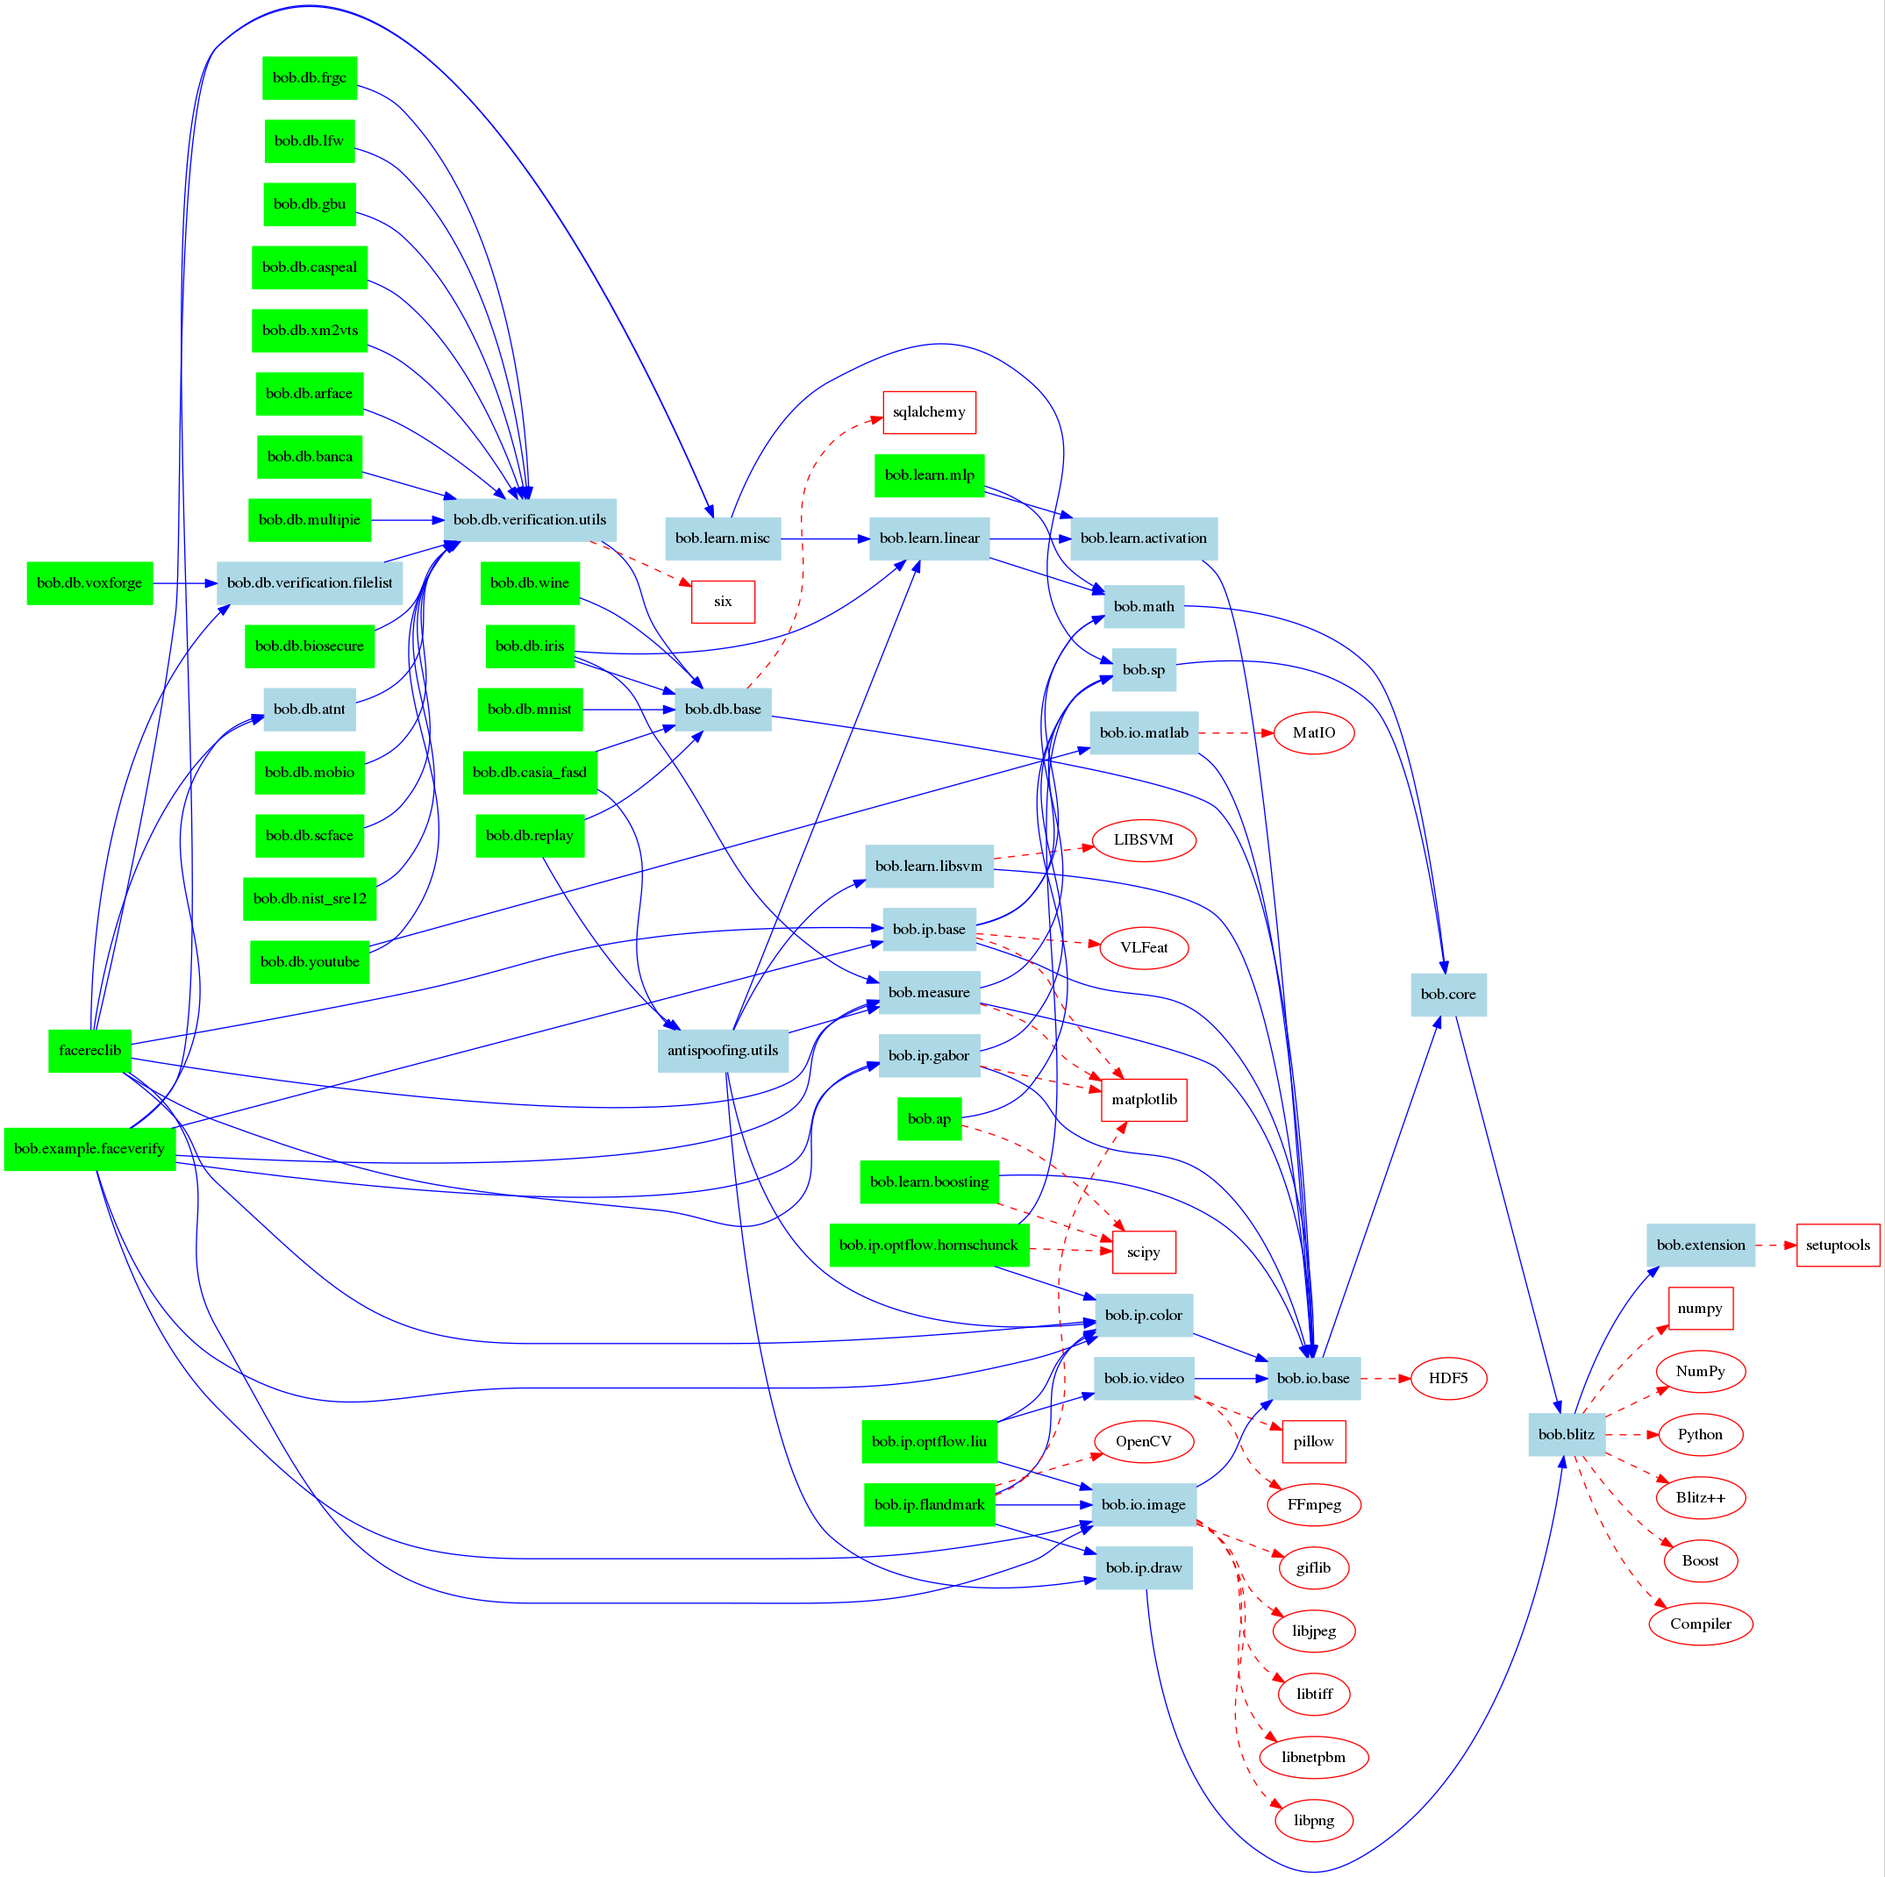
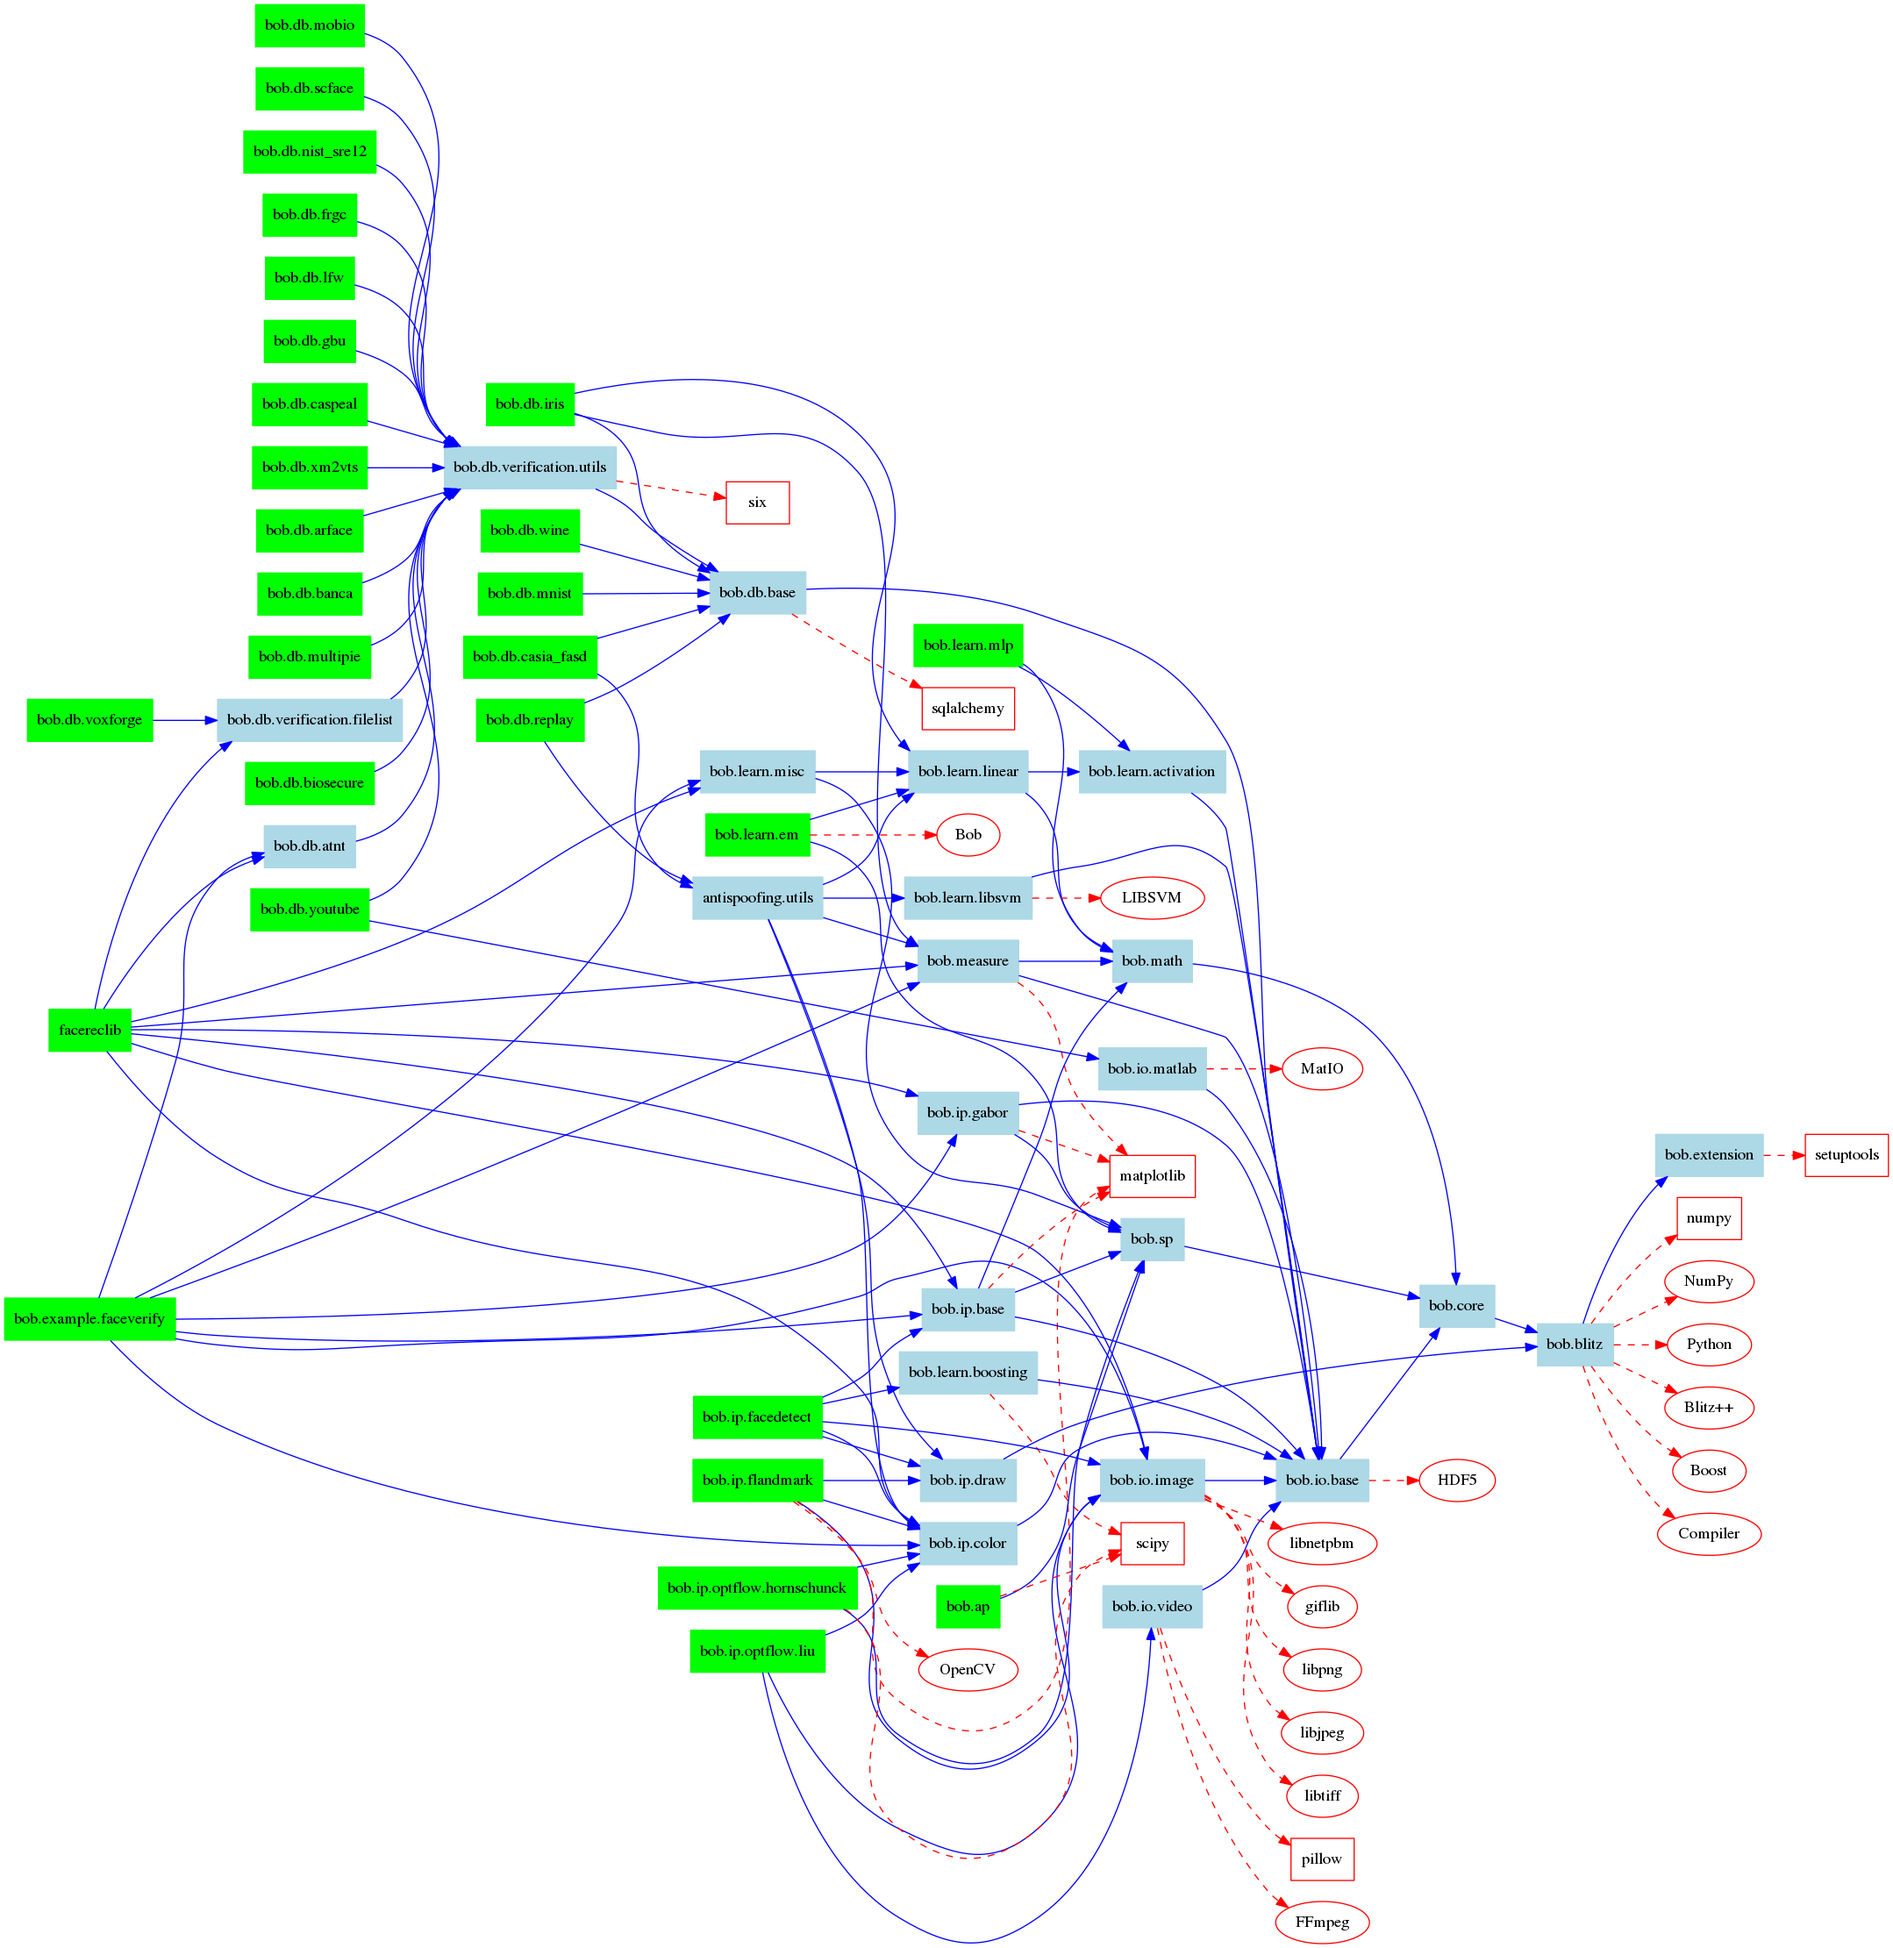
Added submodule bob.learn.em

diff --git a/index.rst b/index.rst
@@ -60,6 +60,7 @@ Machine Learning
    layers/1/bob.learn.libsvm/doc/index
    layers/1/bob.learn.misc/doc/index
    layers/1/bob.learn.boosting/doc/index
+   layers/1/bob.learn.em/doc/index
 
 Database Modules
 ----------------
